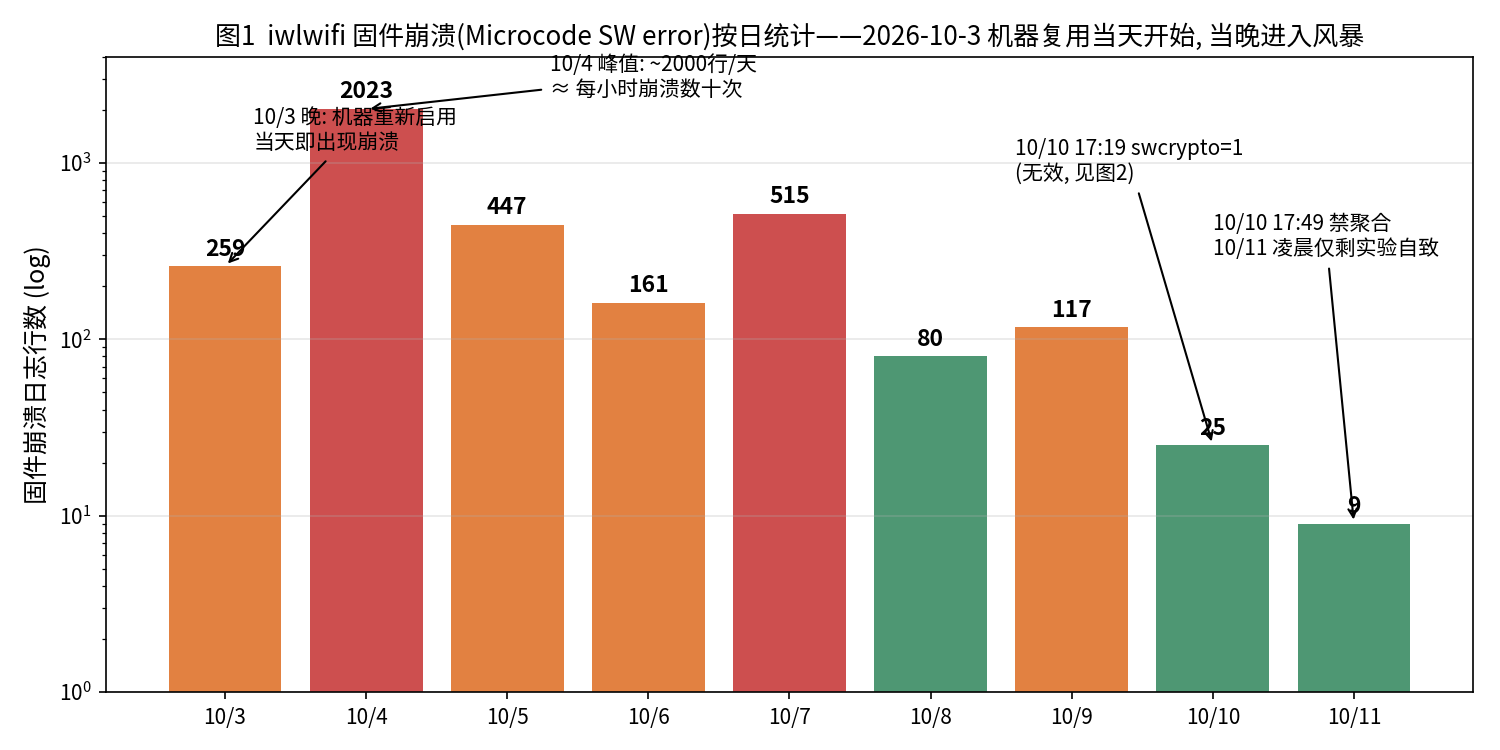
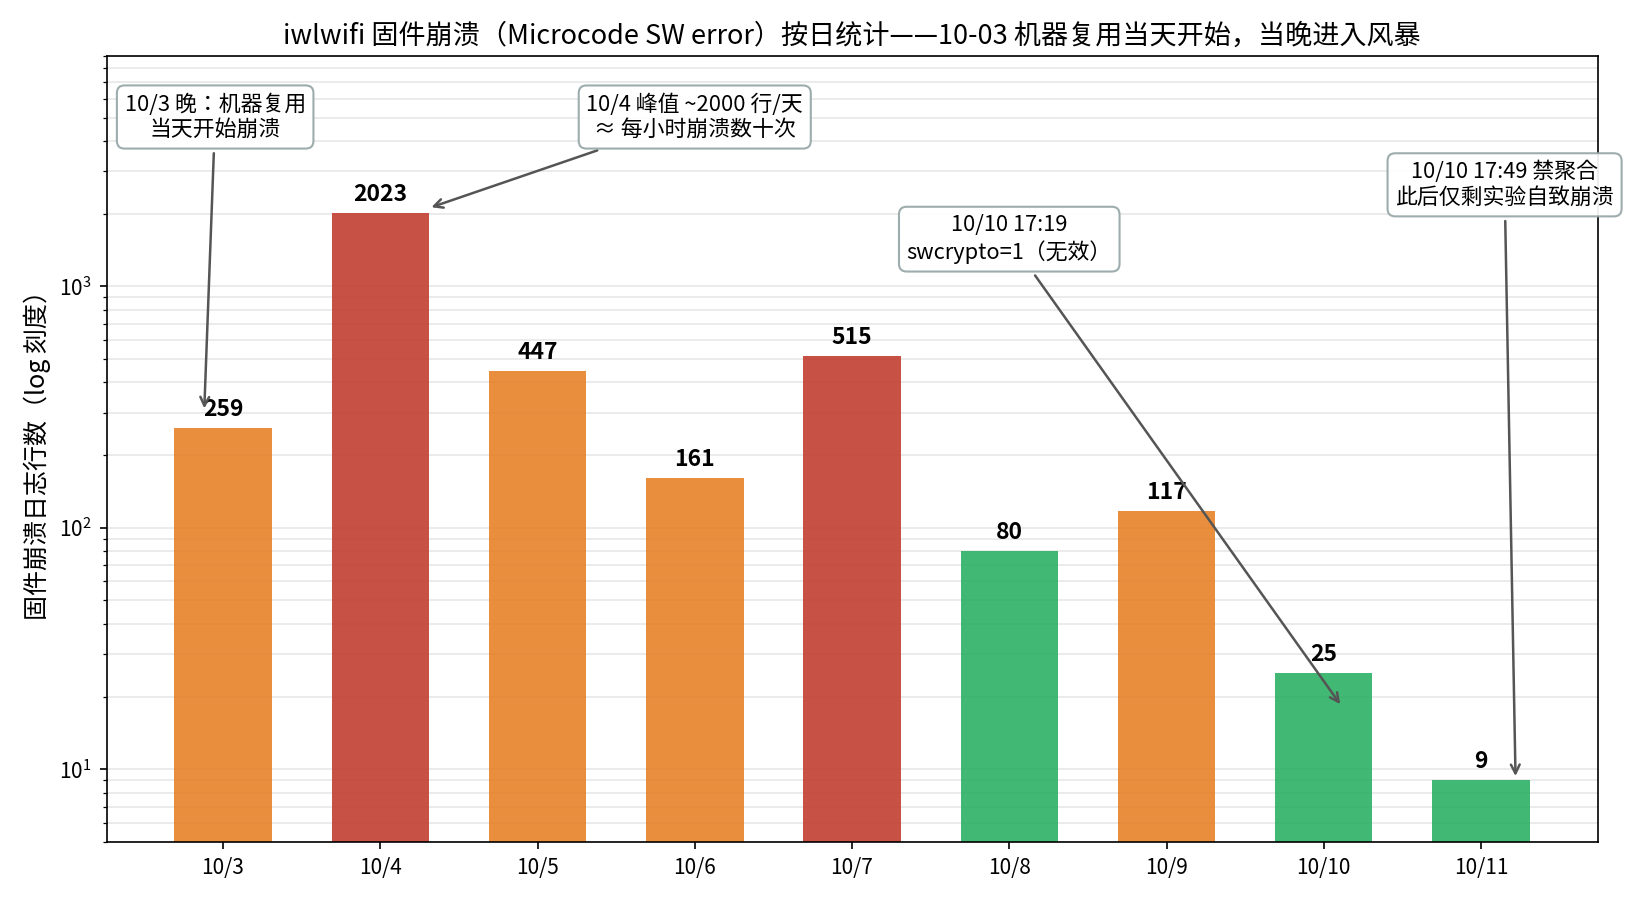
图1布局重排: 标注框加半透明白底, 箭头落点避开数字标签, 同步绘图脚本

Changed region(s): [[0.0, 0.0, 1.0, 0.9813], [0.7973, 0.276, 0.9813, 0.368]]

diff --git a/scripts/gen-charts.py b/scripts/gen-charts.py
@@ -16,22 +16,30 @@ BLUE, RED, GREEN, ORANGE = '#2b6cb0', '#c53030', '#2f855a', '#dd6b20'
 # ---- 图1: 每日崩溃次数(真实journalctl计数) ----
 days = ['10/3','10/4','10/5','10/6','10/7','10/8','10/9','10/10','10/11']
 counts = [259, 2023, 447, 161, 515, 80, 117, 25, 9]
-fig, ax = plt.subplots(figsize=(10, 5))
-bars = ax.bar(days, counts, color=[RED if c > 500 else ORANGE if c > 100 else GREEN for c in counts], alpha=0.85)
-ax.set_yscale('log'); ax.set_ylim(1, 4000)
+colors = ['#c0392b' if c > 500 else '#e67e22' if c > 100 else '#27ae60' for c in counts]
+
+fig, ax = plt.subplots(figsize=(11, 6))
+bars = ax.bar(days, counts, color=colors, alpha=0.88, width=0.62)
+ax.set_yscale('log'); ax.set_ylim(5, 9000)
+ax.set_ylabel('固件崩溃日志行数（log 刻度）', fontsize=12)
+ax.set_title('iwlwifi 固件崩溃（Microcode SW error）按日统计——10-03 机器复用当天开始，当晚进入风暴', fontsize=13)
 for b, c in zip(bars, counts):
-    ax.text(b.get_x()+b.get_width()/2, c*1.15, str(c), ha='center', fontsize=11, fontweight='bold')
-ax.set_ylabel('固件崩溃日志行数 (log)', fontsize=12)
-ax.set_title('图1  iwlwifi 固件崩溃(Microcode SW error)按日统计——2026-10-3 机器复用当天开始, 当晚进入风暴', fontsize=12.5)
-ax.annotate('10/3 晚: 机器重新启用\n当天即出现崩溃', xy=(0, 259), xytext=(0.2, 1200),
-            arrowprops=dict(arrowstyle='->'), fontsize=10)
-ax.annotate('10/4 峰值: ~2000行/天\n≈ 每小时崩溃数十次', xy=(1, 2023), xytext=(2.3, 2400),
-            arrowprops=dict(arrowstyle='->'), fontsize=10)
-ax.annotate('10/10 17:19 swcrypto=1\n(无效, 见图2)', xy=(7, 25), xytext=(5.6, 800),
-            arrowprops=dict(arrowstyle='->'), fontsize=10)
-ax.annotate('10/10 17:49 禁聚合\n10/11 凌晨仅剩实验自致', xy=(8, 9), xytext=(7.0, 300),
-            arrowprops=dict(arrowstyle='->'), fontsize=10)
-ax.grid(axis='y', alpha=0.3)
+    ax.text(b.get_x()+b.get_width()/2, c*1.12, str(c), ha='center', fontsize=11, fontweight='bold')
+
+bbox = dict(boxstyle='round,pad=0.35', facecolor='white', edgecolor='#95a5a6', alpha=0.92)
+arrow = dict(arrowstyle='->', color='#555555', linewidth=1.2)
+
+ax.annotate('10/3 晚：机器复用\n当天开始崩溃', xy=(-0.12, 300), xytext=(-0.05, 4200),
+            fontsize=10.5, bbox=bbox, arrowprops=arrow, ha='center')
+ax.annotate('10/4 峰值 ~2000 行/天\n≈ 每小时崩溃数十次', xy=(1.3, 2100), xytext=(3.0, 4200),
+            fontsize=10.5, bbox=bbox, arrowprops=arrow, ha='center')
+ax.annotate('10/10 17:19\nswcrypto=1（无效）', xy=(7.12, 18), xytext=(5.0, 1300),
+            fontsize=10.5, bbox=bbox, arrowprops=arrow, ha='center')
+ax.annotate('10/10 17:49 禁聚合\n此后仅剩实验自致崩溃', xy=(8.22, 9), xytext=(8.15, 2200),
+            fontsize=10.5, bbox=bbox, arrowprops=arrow, ha='center')
+
+ax.grid(axis='y', alpha=0.3, which='both')
+ax.set_axisbelow(True)
 plt.tight_layout(); plt.savefig(f'{OUT}/fig1-daily-crashes.png', dpi=150); plt.close()
 
 # ---- 图2: 死亡循环(第1轮压测, 17次崩溃精确时刻) ----
